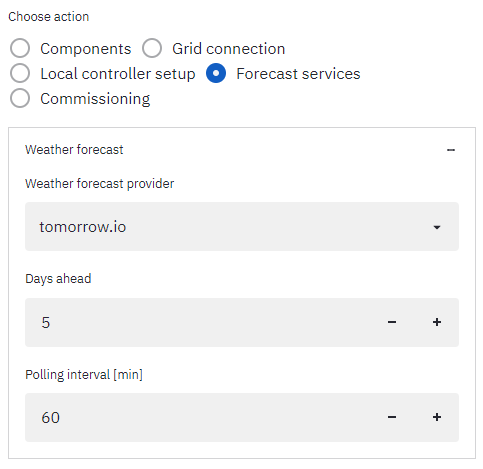
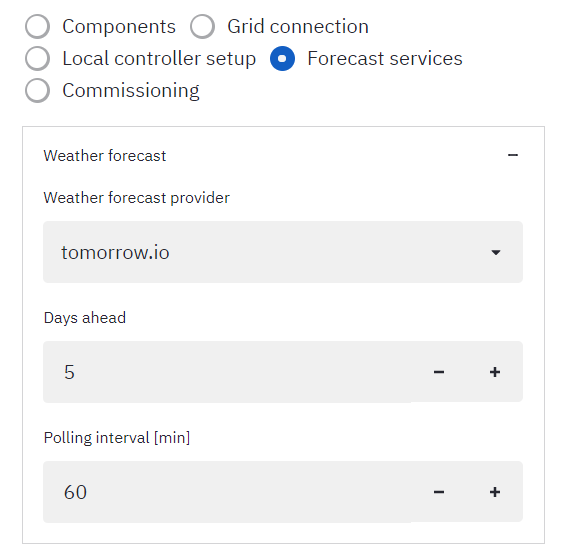
fix image scale

diff --git a/content/MGsetup.rst b/content/MGsetup.rst
@@ -25,14 +25,14 @@ Local controller setup allows to adjust polling intervals from telemetry and ext
 
 .. image:: /images/setup_controller.PNG
    :align: center
-   :scale: 70 %
+   :scale: 75 %
 
 .. image:: /images/setup_comap.PNG
    :align: center
-   :scale: 70 %
+   :scale: 75 %
 
 Forecast services page permits user to set up weather, PV power and local load predictions parameters, such as polling intervals and number of days to forecast. It is possible to choose from available external service providers.
 
 .. image:: /images/setup_forecast.PNG
    :align: center
-   :scale: 70 %
+   :scale: 60 %
